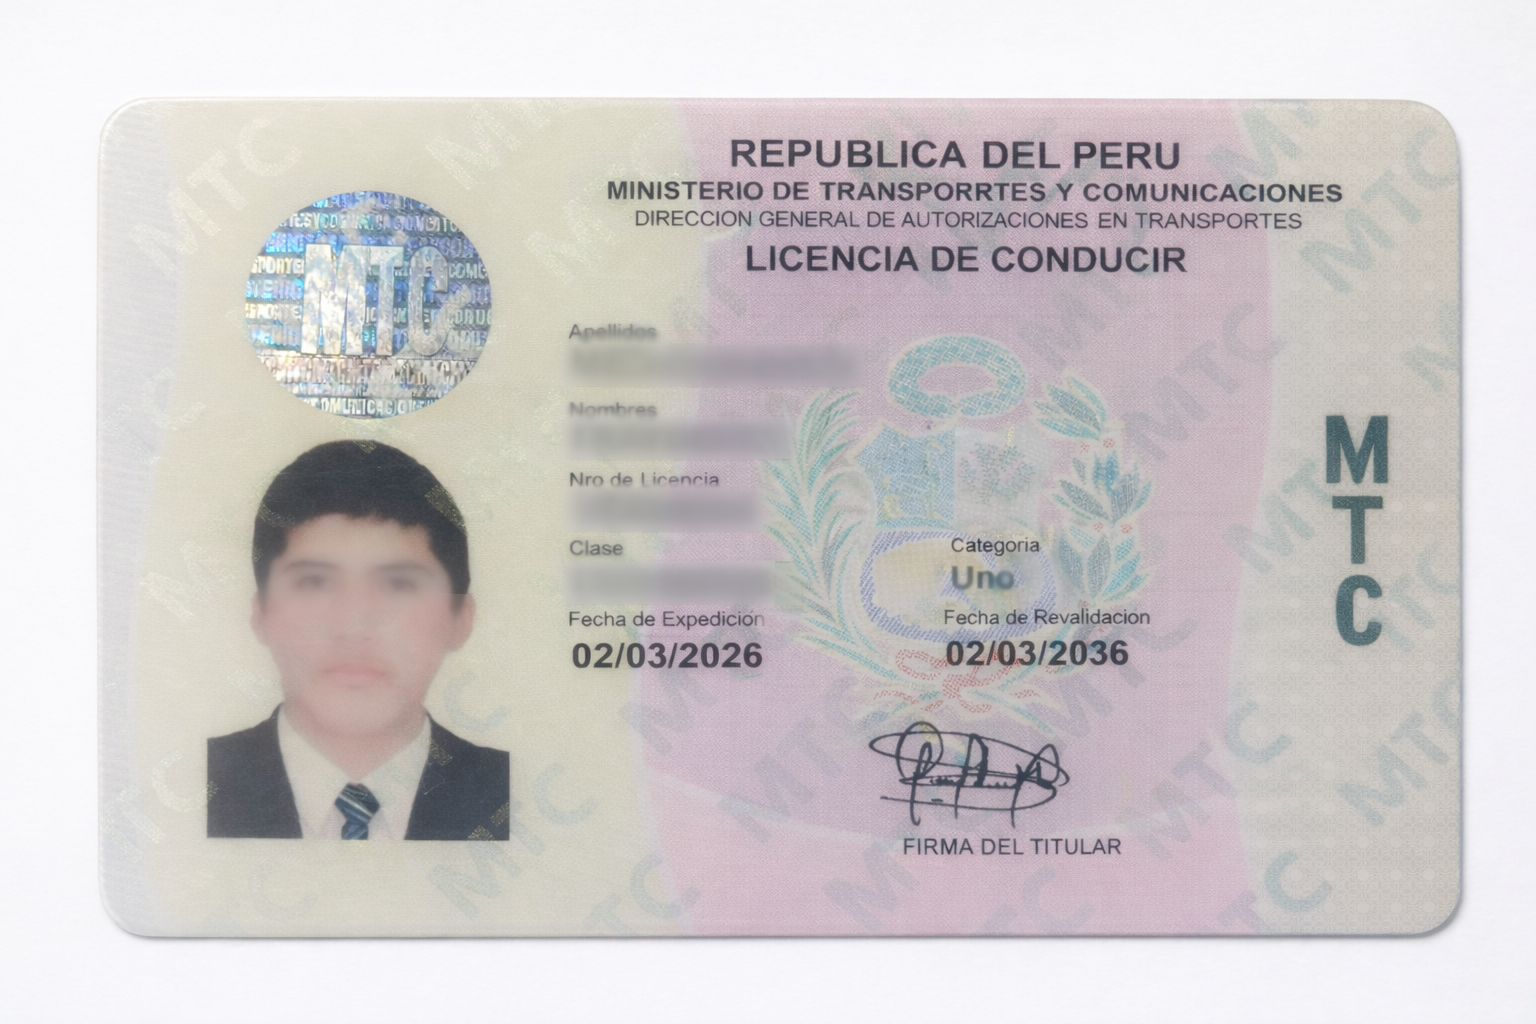
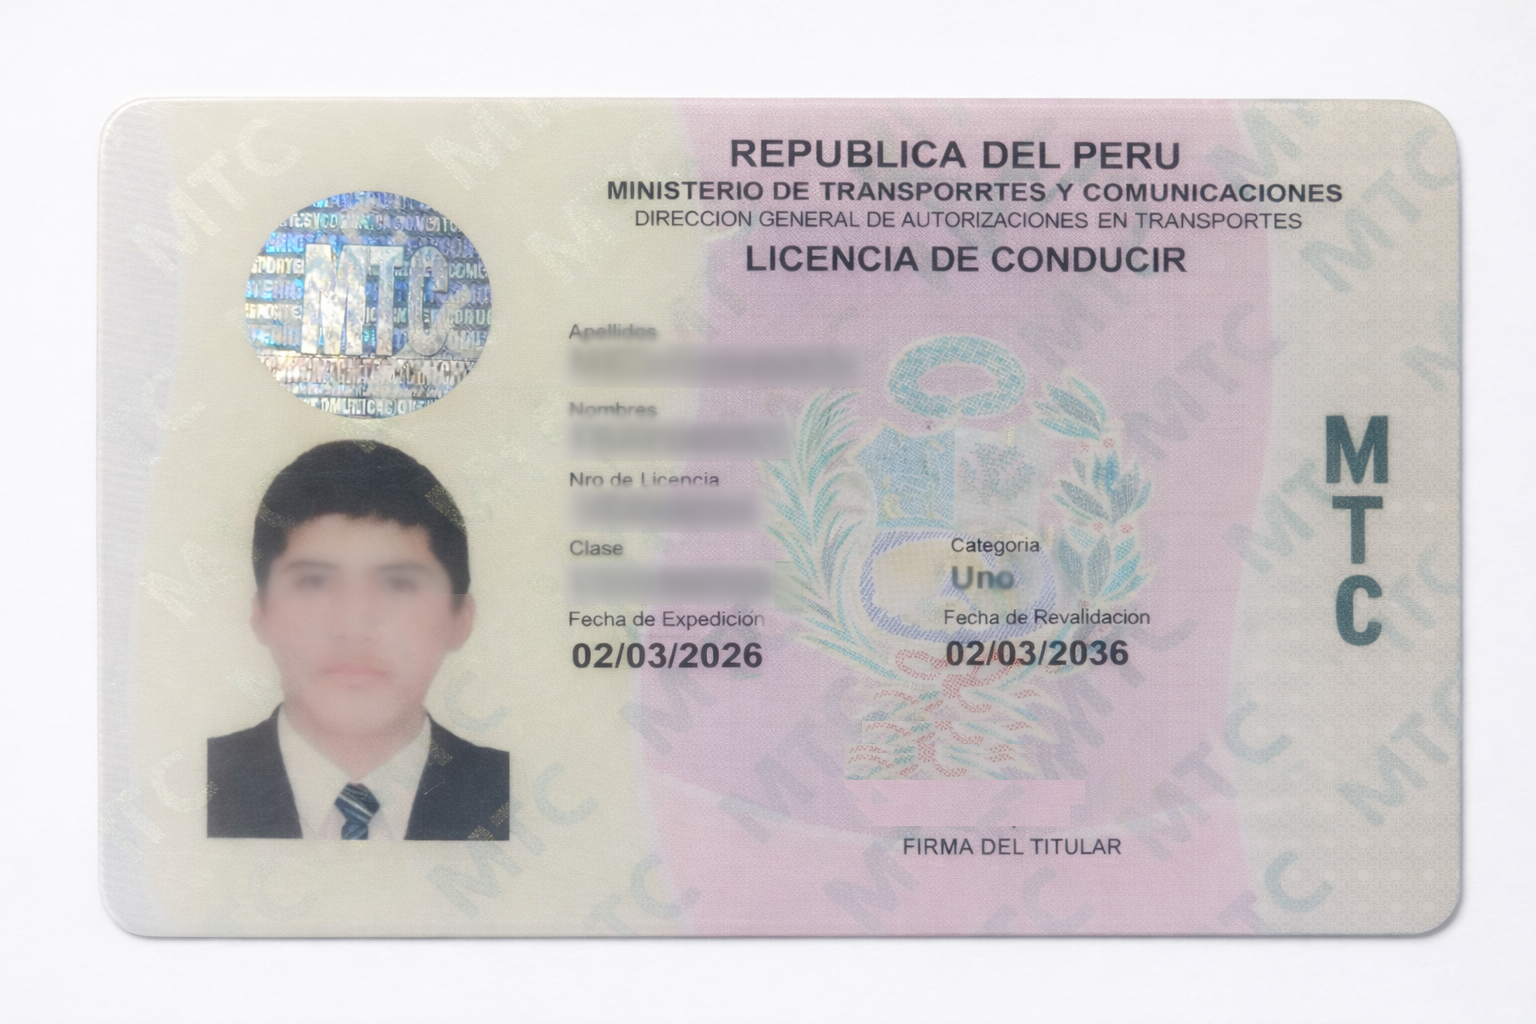
actualizacion de documentos

Changed region(s): [[0.5625, 0.6875, 0.7188, 0.8125]]

diff --git a/src/components/SobreMi.vue b/src/components/SobreMi.vue
@@ -17,7 +17,7 @@
             <h3>{{ $t('sobreMi.personal.title') }}</h3>
 
             <div class="doc-buttons">
-              <button @click="scrollToDoc('dni')">🪪 DNI</button>
+              <!-- <button @click="scrollToDoc('dni')">🪪 DNI</button> -->
 
               <button @click="scrollToDoc('licencia')">🚗 Lic.</button>
             </div>
